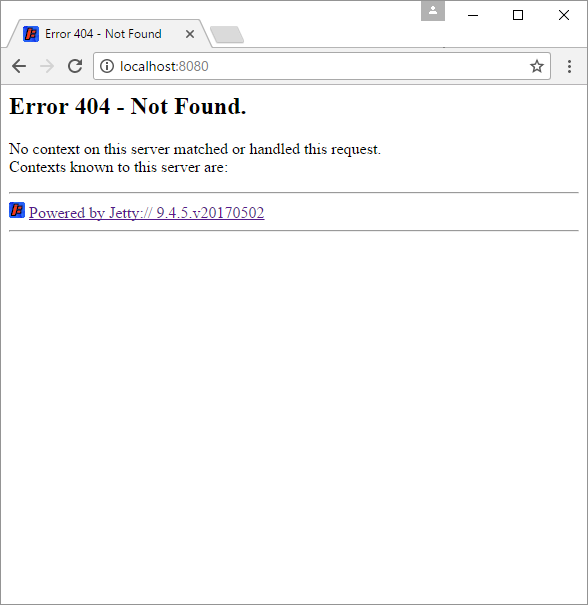
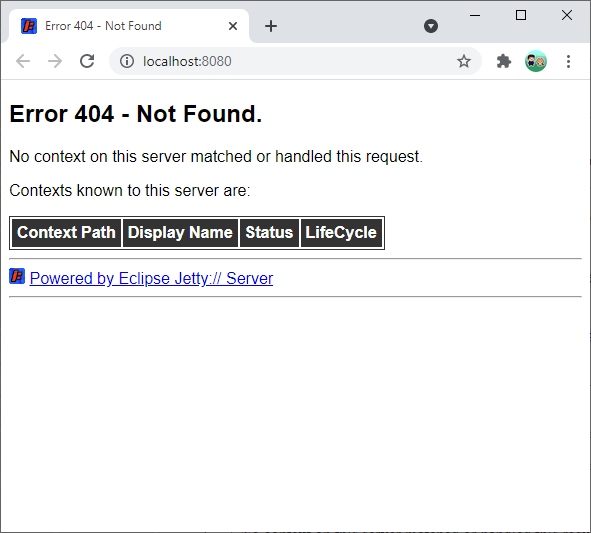
update jetty setup

Changed region(s): [[0.0, 0.0, 1.0, 0.5403], [0.0, 0.9906, 1.0, 1.0]]

diff --git a/tutorials/java-server/_posts/2017-05-27-jetty-setup.md b/tutorials/java-server/_posts/2017-05-27-jetty-setup.md
@@ -8,50 +8,118 @@ meta-title: Jetty Setup
 meta-description: Run your own server.
 meta-image: /tutorials/java-server/images/jetty-setup-5.png
 tags: [tutorial, java, server]
+updated: 2021-06-19
 ---
 
 {% include toc.md %}
 
-When we use the term *server*, we might mean two different things:
+This tutorial goes through the process of using [Jetty](http://www.eclipse.org/jetty/) to turn your computer into a server. This is handy for testing things out without needing to update (or pay for) a live server.
 
-- Hardware, or the computer that receives and sends messages and files.
-- Software, or the code that's running on that computer to handle a request.
+# Download Jetty
 
-This tutorial goes through the process of downloading [Jetty](http://www.eclipse.org/jetty/), which is a (software) server, and running it on your computer to turn your computer into a (hardware) server.
+Jetty is bundled as a `jett-home` directory inside a `.zip` file, which you can download from [here](http://www.eclipse.org/jetty/download.html).
 
-There are other types of servers (both software and hardware), but the setup for those is pretty similar. We're starting with Jetty because it's simple, and we'll work our way up towards the more complicated stuff.
+Download that file, and then unzip the directory anywhere. I put mine on my desktop. You can always move it later.
 
-## Download Jetty
+# Jetty Home and Jetty Base
 
-Jetty is bundled as a `.zip` file, which can be downloaded [here](http://www.eclipse.org/jetty/download.html).
+The `jetty-home` directory contains everything you need to run a Jetty server, but it doesn't contain your actual server code or webpages. You need to create a separate directory for your code.
 
-Download that file, and then unzip it anywhere. I just put mine on my desktop. You can always move it later.
+Create a `jetty-base` directory. You can call it anything, and you can put it anywhere. I called mine `jetty-base` and put it on my desktop for now.
 
-## Run start.jar
+As a general rule, you'll never change anything in the `jetty-home` directory (the directory you downloaded, which contains a `start.jar` file), and you'll put all of your code and files in your `jetty-base` directory.
 
-Open a console to your Jetty directory. There should be a `start.jar` file inside that directory. Run it!
+**Note:** Previous versions of Jetty did not separate `jetty-home` and `jetty-base`, and you would put your code directly in Jetty's home directory. But as of Jetty 10, you should keep your code separate from Jetty's home directory.
 
-```
-java -jar start.jar
-```
+# Initialize Jetty Base
 
-This runs Jetty, which turns your computer into a server. This is very useful for debugging server code before uploading it to a real server!
+Right now, your `jetty-base` directory is empty. To initialize it with some files that Jetty needs, you can run the `start.jar` file inside your `jetty-home` directory. There are two ways to do this:
 
-To prove that Jetty is working, open a web browser and navigate to [http://localhost:8080/](http://localhost:8080/) which should give you an error that looks like this:
+1. Open a command line to your `jetty-home` directory, and then run the `start.jar` file and pass it the `jetty.base` argument:
+
+   ```
+   cd /path/to/your/jetty-home
+   java -jar start.jar jetty.base=/path/to/your/jetty-base --add-module=server,http,deploy,annotations
+   ```
+   
+   For example, I would run these commands:
+
+   ```
+   cd C:\Users\kevin\Desktop\jetty-home-11.0.5
+   java -jar start.jar jetty.base=C:\Users\kevin\Desktop\jetty-base --add-module=server,http,deploy,annotations
+   ```
+
+2. Open a command line to your `jetty-base` directory, and then use the full path to `start.jar`:
+
+   ```
+   cd /path/to/your/jetty-base
+   java -jar /path/to/your/jetty-home/start.jar --add-module=server,http,deploy,annotations
+   ```
+   
+   For example, I would run these commands:
+
+   ```
+   cd C:\Users\kevin\Desktop\jetty-base
+   java -jar C:\Users\kevin\Desktop\jetty-home-11.0.5\start.jar --add-module=server,http,deploy,annotations
+   ```
+
+In both cases, you're running `start.jar` and telling it where your `jetty-base` directory is, either through the `jetty.base` argument or from `cd`-ing into it first. Then you're telling it to add the `server`, `http`, `deploy`, and `annotations` modules, which you'll need as you work through the rest of the tutorials.
+
+Your `jetty-base` directory should now contain a few configuration files. You can open them if you're curious, but you won't need to change them.
+
+# Run Jetty
+
+Now that you've initialized your `jetty-home` directory, you can run Jetty!
+
+Just like before, you need to run the `start.jar` file and tell it where your `jetty-base` directory is, either through the `jetty.base` parameter or by `cd`-ing into it first.
+
+1. Open a command line to your `jetty-home` directory, and then run the `start.jar` file and pass it the `jetty.base` argument:
+
+   ```
+   cd /path/to/your/jetty-home
+   java -jar start.jar jetty.base=/path/to/your/jetty-base
+   ```
+   
+   For example, I would run these commands:
+
+   ```
+   cd C:\Users\kevin\Desktop\jetty-home-11.0.5
+   java -jar start.jar jetty.base=C:\Users\kevin\Desktop\jetty-base
+   ```
+
+2. Open a command line to your `jetty-base` directory, and then use the full path to `start.jar`:
+
+   ```
+   cd /path/to/your/jetty-base
+   java -jar /path/to/your/jetty-home/start.jar
+   ```
+   
+   For example, I would run these commands:
+
+   ```
+   cd C:\Users\kevin\Desktop\jetty-base
+   java -jar C:\Users\kevin\Desktop\jetty-home-11.0.5\start.jar
+   ```
+
+**Tip:** This command is the exact same thing as the initialization command, but without the `--add-module=server,http,deploy,annotations` part.
+
+Your command line should print out some info, ending with a line that contains `Started Server`. That means you're running Jetty!
+
+Open a web browser and navigate to [http://localhost:8080/](http://localhost:8080/) which should give you an error that looks like this:
 
 ![Jetty 404 error](/tutorials/java-server/images/jetty-setup-1.png)
 
 If you're seeing this, that's a good thing! It means that Jetty is running, but you haven't added any web apps to it. Let's do that now!
 
-## Static Web App
+# Hello World Web App
 
-For our purposes, you can think of a web app as a website and everything in it. There are different types of web apps, but for now that definition will get us pretty far. A server can run multiple web apps. Now that we have Jetty running, we can add web apps to it!
+You can think of a *web app* as a website and everything in it, including its server code. Now that you have Jetty running, you can add web apps to it!
 
-In the following tutorials, we'll learn how to create a dynamic web app (a website that requires code to run on a server), but for now let's test our Jetty installation using a static web app (a website that's just files).
+In your `jetty-base` folder, notice the `webapps` directory. This is where your web apps will go.
 
-In your Jetty folder, notice the `webapps` directory. This is where your web apps will go.
+To add a web app to your server, create a folder inside the `webapps` directory, and then add your files inside your folder.
 
-Adding a web app to our server is as simple as adding a folder to  the `webapps` directory. Let's add a folder named `HelloWorld` for now. Inside the `HelloWorld` directory, save this HTML to a file named `index.html`:
+For example, create a `HelloWorld` folder inside your `webapps` directory. Inside the `HelloWorld` directory, save this HTML to a file named `index.html`:
 
 ```html
 <!DOCTYPE html>
@@ -68,13 +136,15 @@ Adding a web app to our server is as simple as adding a folder to  the `webapps`
 
 Your directory structure should look like this:
 
-- `jetty/`
-  - `start.jar`
-  - `(bunch of other files)`
+- `jetty-base/`
+  - `resources/`
+    - `(files you don't care about)`
+  - `start.d/`
+    - `(files you don't care about)`
   - `webapps/`
     - `HelloWorld/`
       - `index.html`
-      
+
 Now open your web browser to [http://localhost:8080/HelloWorld/index.html](http://localhost:8080/HelloWorld/index.html), and you should see this:
 
 ![Jetty hello world](/tutorials/java-server/images/jetty-setup-2.png)
@@ -83,9 +153,9 @@ Notice that you didn't have to restart the Jetty server. It should automatically
 
 Congratulations, you just wrote your first web app! :tada:
 
-## Root Web App
+# Root Web App
 
-Notice that the URL for our web app contains the `HelloWorld` directory. This is useful if you have multiple web apps running on the same server, but you also might want to create a "top level" web app. To do that, basically all you need to do is create a web app named `root`.
+Notice that the URL for your web app contains the `HelloWorld` directory. This is useful if you have multiple web apps running on the same server, but you also might want to create a "top level" web app. To do that, create a web app named `root`.
 
 In your `webapps` directory, create another folder named `root`. And in that `root` folder, save this HTML to another file named `index.html`:
 
@@ -109,5 +179,3 @@ Now open up your web browser to [http://localhost:8080/index.html](http://localh
 Note that this URL does not contain the `root` directory.
 
 Also note that you can link between web apps, just like you can link between web pages- because that's what these are!
-
-# Next: [Servlets](/tutorials/java-server/servlets)
